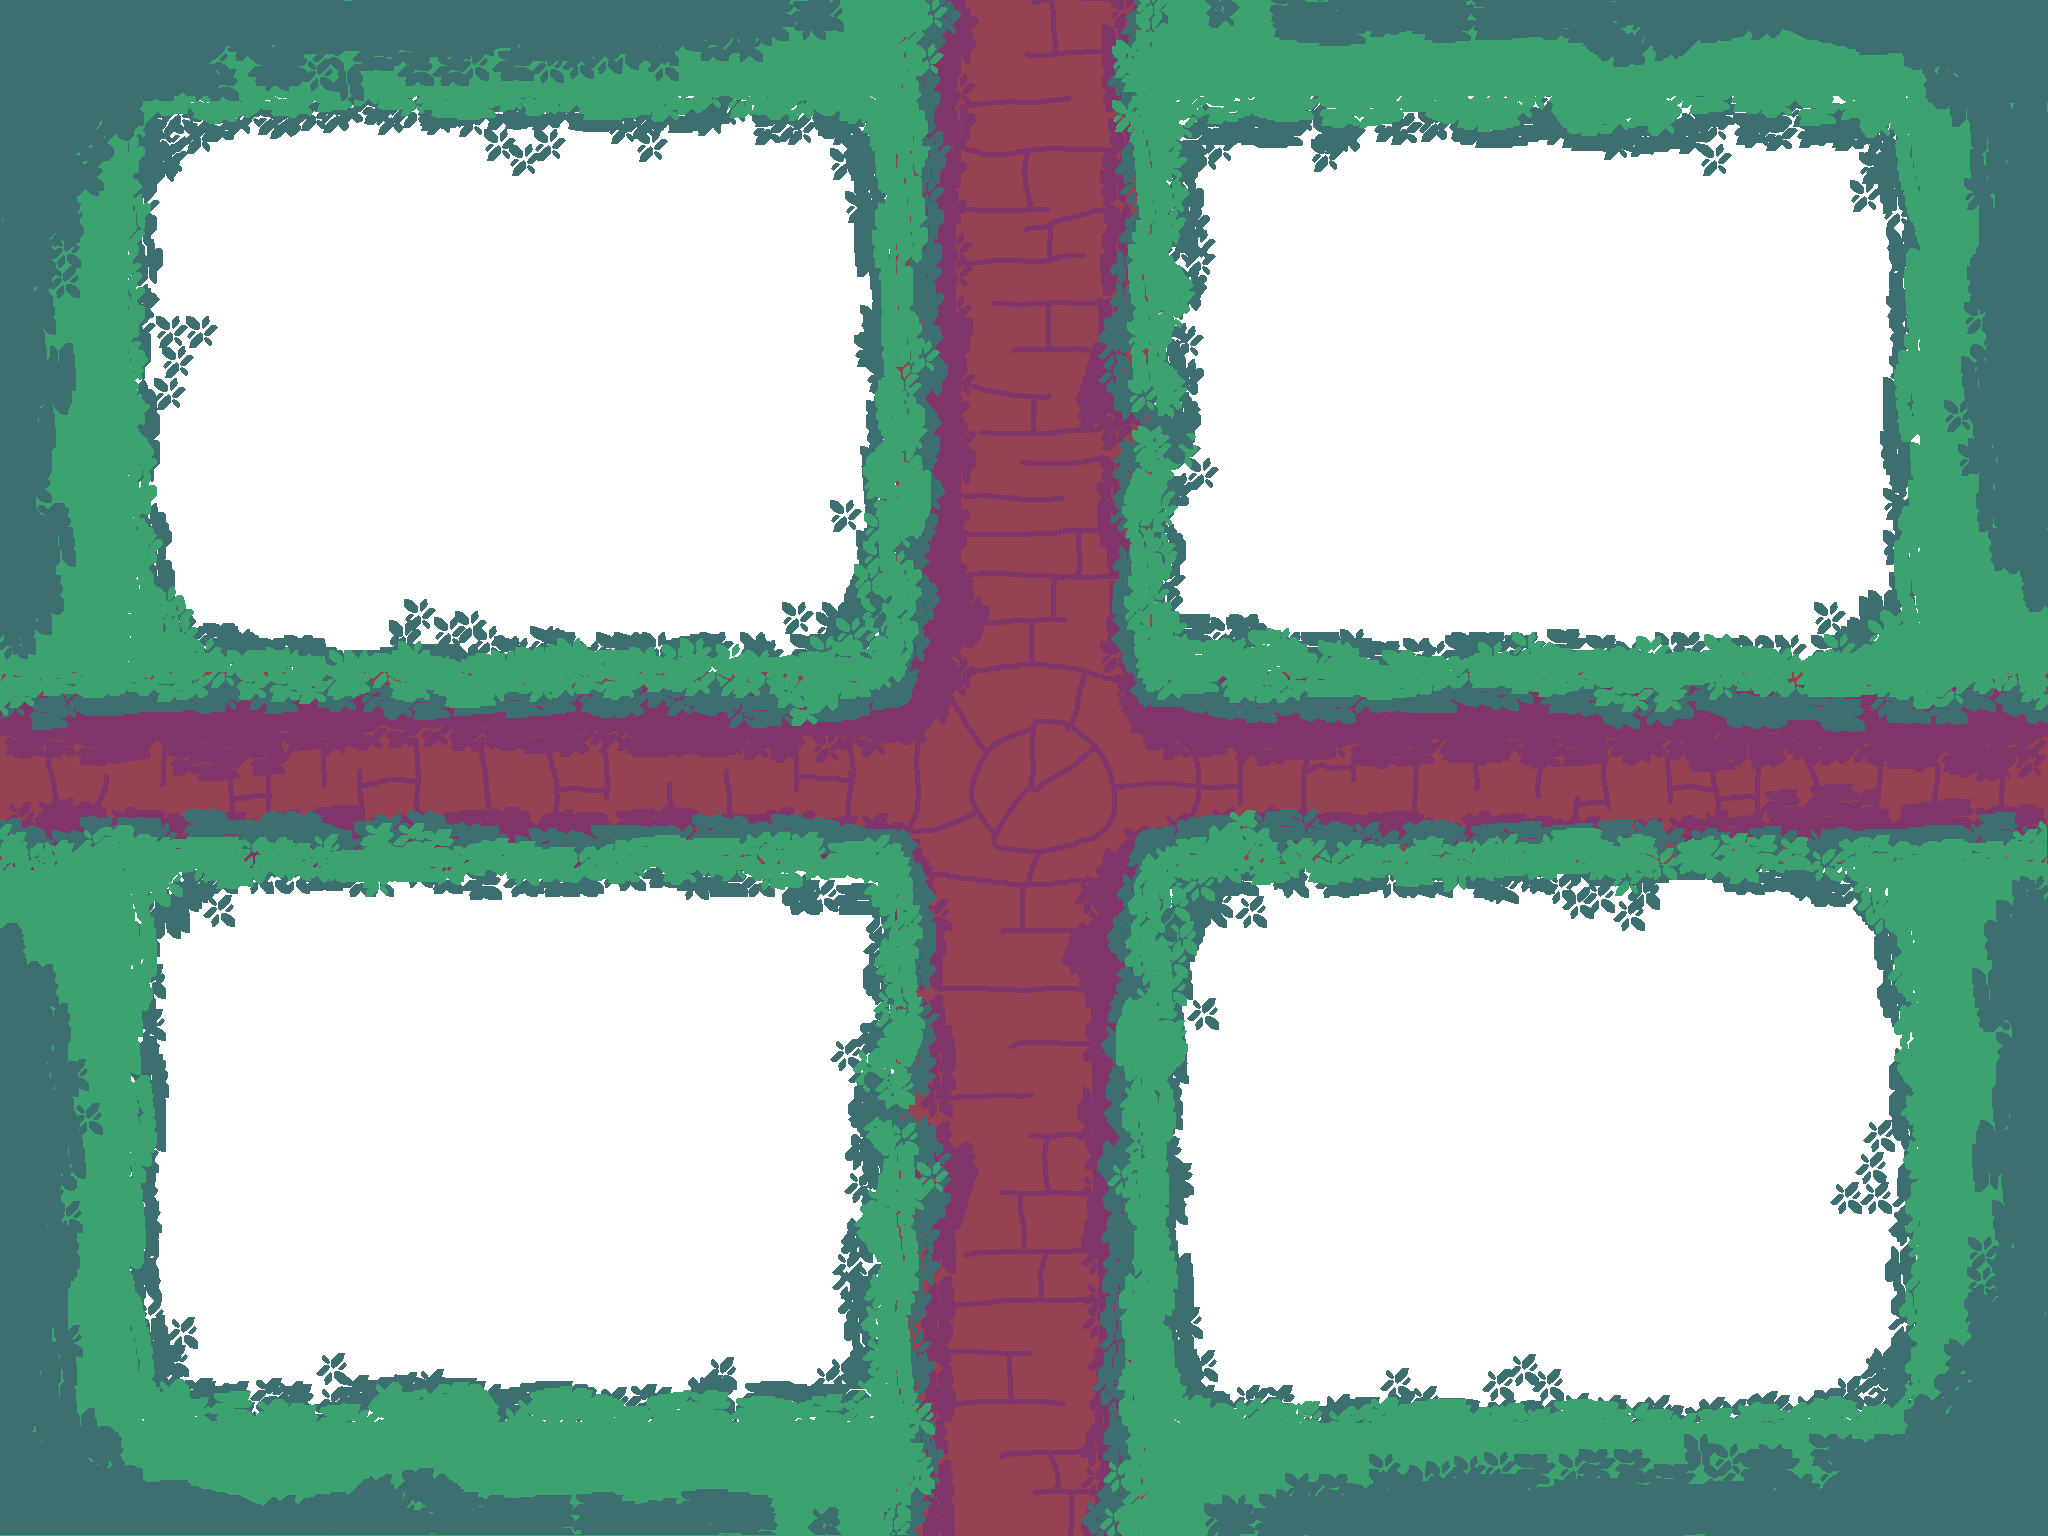
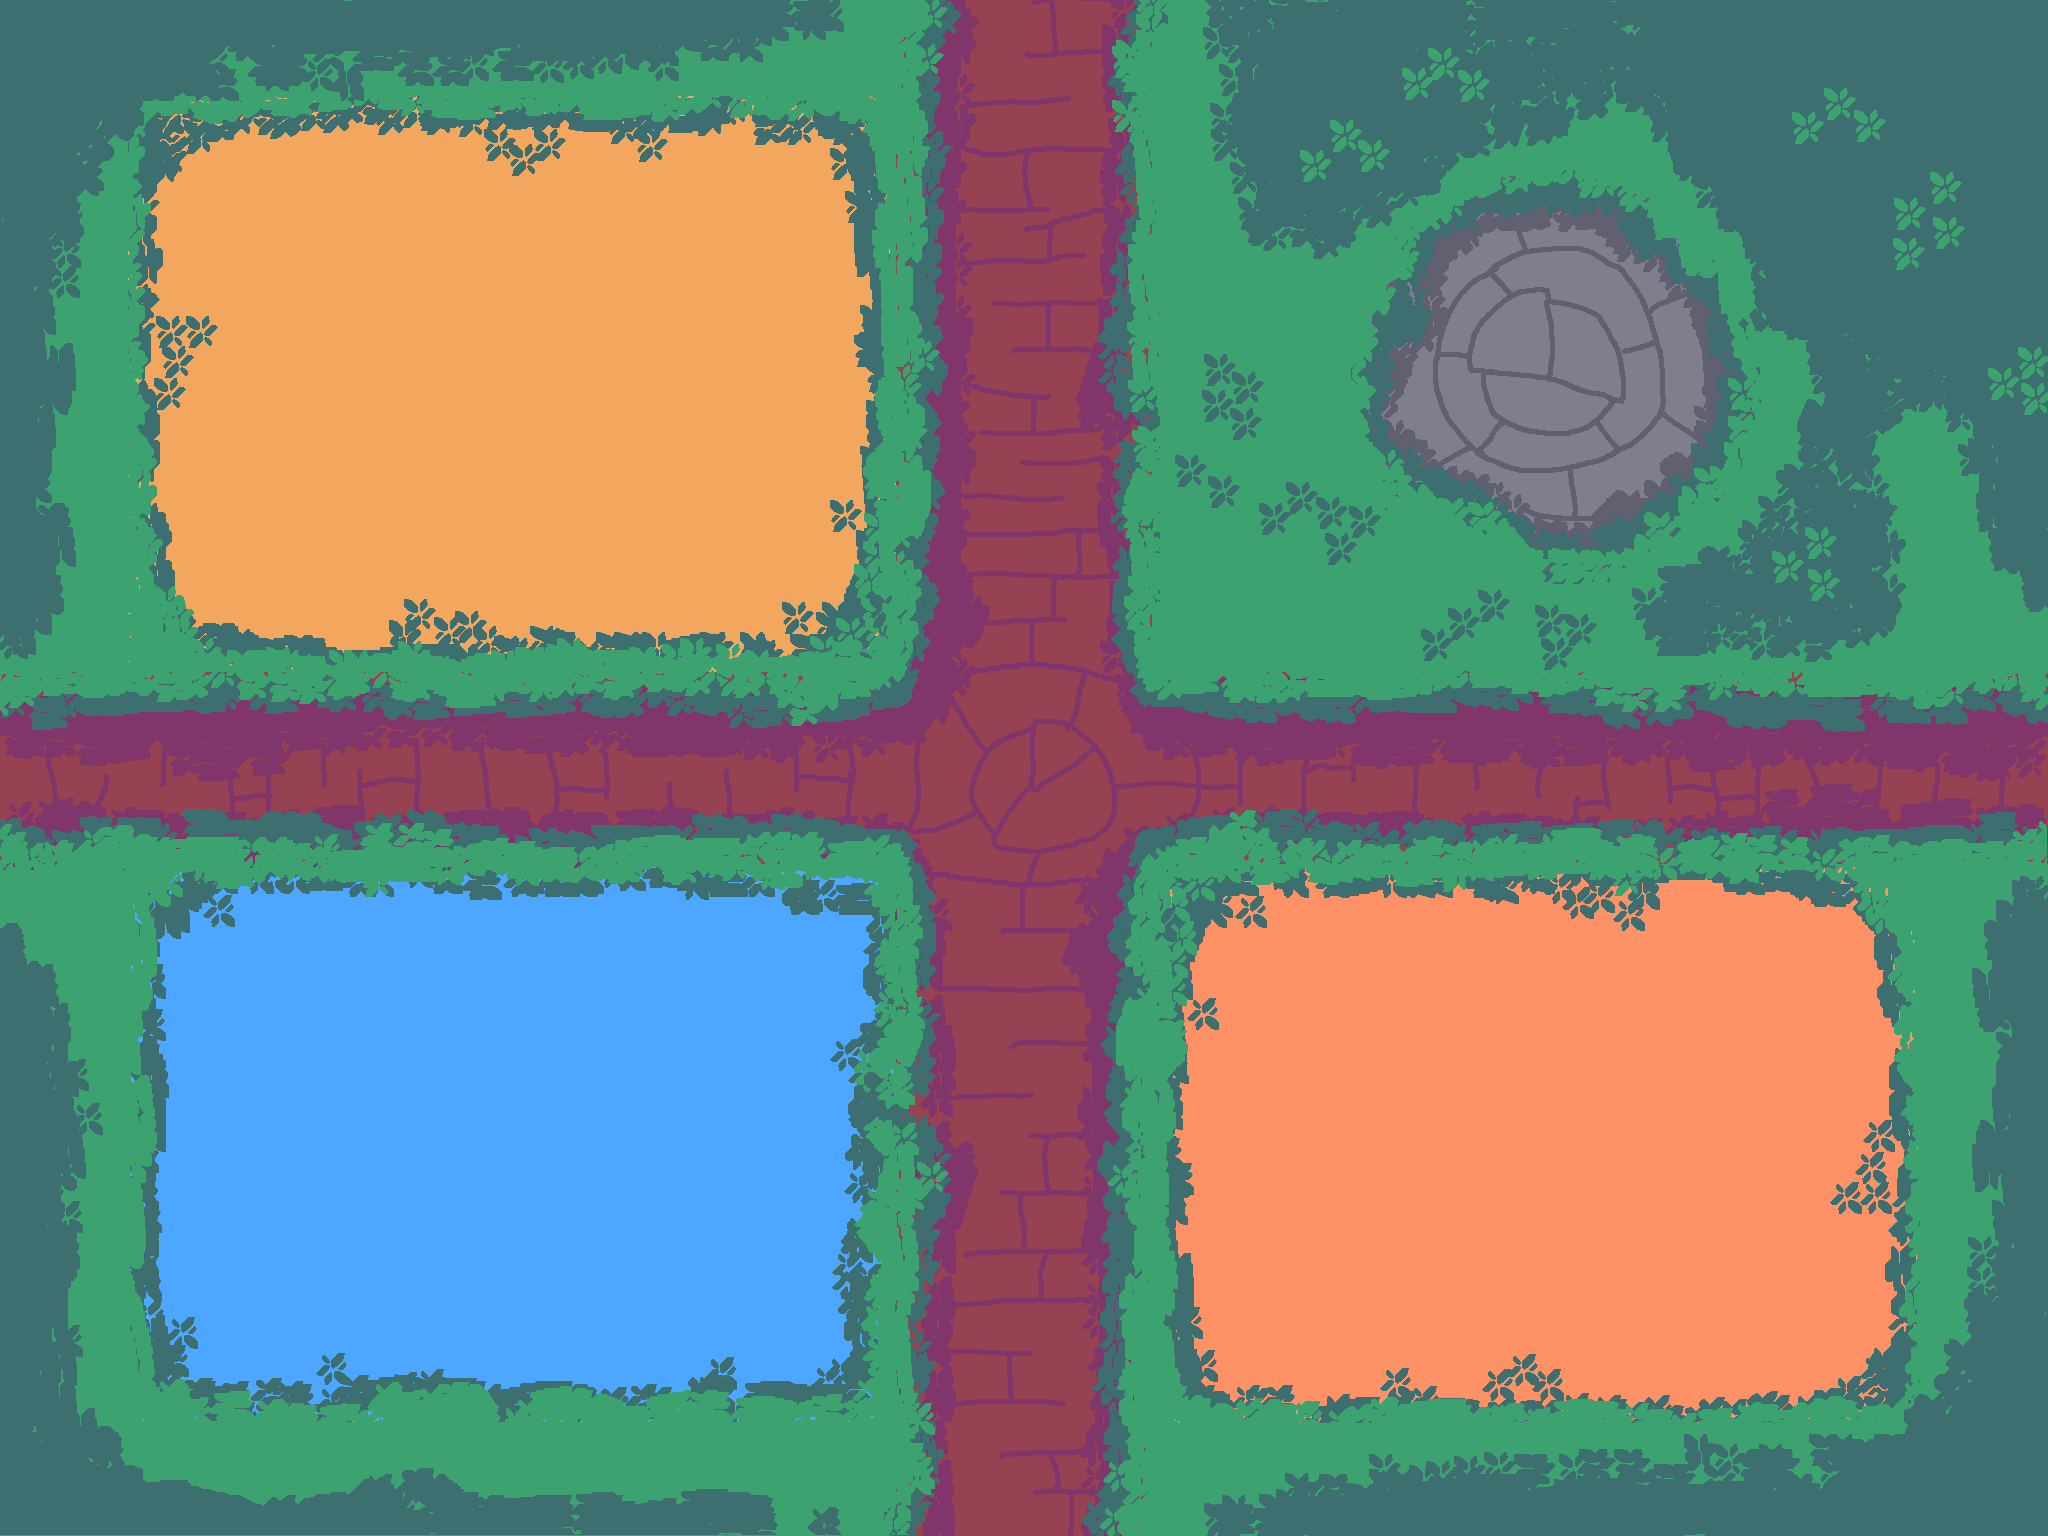
implement game view in arcade

diff --git a/views/game.py b/views/game.py
@@ -1,66 +1,66 @@
 import json
 import time
 
-import pyglet
-from pyglet.graphics import Batch, Group
-from pyglet.sprite import Sprite
-from pyglet.window import Window, mouse
+import arcade
 
-from camera import Camera
 from data import get_save_file
 from music import MusicPlayer
-from resources import resources
-from sprites import Shop
-from sprites.leaf_counter import LeafCounter
-from sprites.tree import Tree
-from utils import Scene
-from views.shop import ShopView
 
 
-class Game(Scene):
-    def __init__(self, window: Window, data):
-        super().__init__(window)
+class GameView(arcade.View):
+    def __init__(self, data):
+        super().__init__()
 
-        self.window = window
         self.data = data
 
-        self.batch = Batch()
+        self.background_sprites = arcade.SpriteList()
+        self.foregroud_sprites = arcade.SpriteList()
 
-        self.background = Sprite(
-            img=resources["background"], batch=self.batch, group=Group(order=-127)
+        self.background = arcade.Sprite(
+            "assets/background.png", center_x=1024, center_y=768
         )
-        self.soil = Sprite(
-            img=resources["soil"], batch=self.batch, group=Group(order=-128)
-        )
+        self.background_sprites.append(self.background)
 
-        self.interactive_sprites = []
+        self.shop = arcade.Sprite("assets/shop.png", center_x=1360, center_y=912)
+        self.foregroud_sprites.append(self.shop)
 
-        self.hovered = None
-        self.shop = Shop(x=1456, y=1040, batch=self.batch)
-        self.interactive_sprites.append(self.shop)
-
-        self.camera = Camera(self.window)
-        self.camera.x = 512
-        self.camera.y = 384
+        self.camera = arcade.Camera2D(position=(512, 384))
 
         for x in range(4):
             for y in range(2):
-                sprite = Tree(x=128 + x * 192, y=192 + y * 256, batch=self.batch)
-                self.interactive_sprites.append(sprite)
+                sprite = arcade.Sprite(
+                    "assets/placement_dirt.png",
+                    center_x=128 + x * 192,
+                    center_y=192 + y * 256,
+                )
+                self.foregroud_sprites.append(sprite)
 
         for x in range(4):
             for y in range(2):
-                sprite = Tree(x=128 + x * 192, y=928 + y * 256, batch=self.batch)
-                self.interactive_sprites.append(sprite)
+                sprite = arcade.Sprite(
+                    "assets/placement_dirt.png",
+                    center_x=128 + x * 192,
+                    center_y=928 + y * 256,
+                )
+                self.foregroud_sprites.append(sprite)
 
         for x in range(4):
             for y in range(2):
-                sprite = Tree(x=1184 + x * 192, y=192 + y * 256, batch=self.batch)
-                self.interactive_sprites.append(sprite)
+                sprite = arcade.Sprite(
+                    "assets/placement_dirt.png",
+                    center_x=1184 + x * 192,
+                    center_y=192 + y * 256,
+                )
+                self.foregroud_sprites.append(sprite)
 
         self.player = MusicPlayer()
         self.player.play()
 
+        self.hovered = None
+
+        self.overlay_sprites = arcade.SpriteList()
+
+        """
         self.shop_view = ShopView(self.window)
         self.in_shop = False
 
@@ -70,42 +70,50 @@ class Game(Scene):
 
         self.save_game()
         self.leaf_counter = LeafCounter(self.data["leaf_count"], 0, 0)
+        """
 
-        pyglet.clock.schedule_interval(lambda dt: self.player.next_source, 1.0)
+    def on_draw(self):
+        self.clear()
 
-    def draw(self):
-        with self.camera:
-            self.batch.draw()
+        with self.camera.activate():
+            self.background_sprites.draw()
+            self.foregroud_sprites.draw()
 
+        self.overlay_sprites.draw()
+
+        """
         self.leaf_counter.draw()
 
         if self.in_shop:
             self.shop_view.draw()
+        """
+
+    def on_mouse_drag(
+        self, x: int, y: int, dx: int, dy: int, _buttons: int, _modifiers: int
+    ):
+        self.camera.position = (
+            max(512, min(self.camera.position.x - dx, 1536)),
+            max(384, min(self.camera.position.y - dy, 1152)),
+        )
 
     def on_mouse_motion(self, x, y, dx, dy):
-        world_x, world_y = self.camera.screen_to_world(x, y)
+        (world_x, world_y, _) = self.camera.unproject((x, y))
         hovered = None
-        for sprite in self.interactive_sprites:
-            if sprite.hit_test(world_x, world_y):
+        for sprite in self.foregroud_sprites:
+            if sprite.collides_with_point((world_x, world_y)):
                 hovered = sprite
                 break
         if hovered != self.hovered:
             if self.hovered is not None:
-                self.hovered.on_hover_end()
+                self.hovered.color = (255, 255, 255)
             if hovered is not None:
-                hovered.on_hover_start()
+                hovered.color = (255, 200, 200)
             self.hovered = hovered
 
-    def on_mouse_drag(self, x, y, dx, dy, buttons, modifiers):
-        if buttons & mouse.LEFT:
-            self.camera.x = max(0, min(self.camera.x - dx, 1024))
-            self.camera.y = max(0, min(self.camera.y - dy, 768))
-
     def on_mouse_press(self, x, y, button, modifiers):
-        world_x, world_y = self.camera.screen_to_world(x, y)
-        for sprite in self.interactive_sprites:
-            if sprite.hit_test(world_x, world_y):
-                sprite.on_mouse_press(x, y, button, modifiers)
+        (world_x, world_y, _) = self.camera.unproject((x, y))
+        for sprite in self.foregroud_sprites:
+            if sprite.collides_with_point((world_x, world_y)):
                 break
 
     def save_game(self):
@@ -113,9 +121,8 @@ class Game(Scene):
         with open(get_save_file(), "w") as f:
             json.dump(self.data, f)
 
+    """
     def on_shop_press(self, x, y, buttons, modifiers):
         if buttons & mouse.LEFT:
             self.dispatch_event("open_shop")
-
-
-Game.register_event_type("open_shop")
+    """

diff --git a/views/main_menu.py b/views/main_menu.py
@@ -1,6 +1,9 @@
 import arcade
 import arcade.gui
 
+from data import load_game
+from views.game import GameView
+
 
 class MainMenuView(arcade.View):
     def __init__(self):
@@ -55,18 +58,19 @@ class MainMenuView(arcade.View):
             texture_pressed=buttons[7],
         )
 
+        new_game_button.on_click = self.on_new_game_button_click
+        quit_button.on_click = self.on_quit_button_click
+
         self.manager.add(new_game_button)
         self.manager.add(continue_button)
         self.manager.add(load_game_button)
         self.manager.add(quit_button)
 
-        @new_game_button.event("on_click")
-        def on_new_game_button_pressed(self):
-            pass
+    def on_new_game_button_click(self, event):
+        self.window.show_view(GameView(load_game()))
 
-        @quit_button.event("on_click")
-        def on_quit_button_pressed(self):
-            arcade.exit()
+    def on_quit_button_click(self, event):
+        arcade.exit()
 
     def on_draw(self):
         self.clear()

diff --git a/music.py b/music.py
@@ -1,19 +1,17 @@
 import random
 
-from pyglet.media import Player
-
-from resources import resources
+import pyglet
 
 
-class MusicPlayer(Player):
+class MusicPlayer(pyglet.media.Player):
     def __init__(self) -> None:
         super().__init__()
 
         tracks = [
-            resources["soundtrack_1"],
-            resources["soundtrack_2"],
-            resources["soundtrack_3"],
-            resources["soundtrack_4"],
+            pyglet.media.load("assets/music/soundtrack_1.mp3"),
+            pyglet.media.load("assets/music/soundtrack_2.mp3"),
+            pyglet.media.load("assets/music/soundtrack_3.mp3"),
+            pyglet.media.load("assets/music/soundtrack_4.mp3"),
         ]
 
         random.shuffle(tracks)
